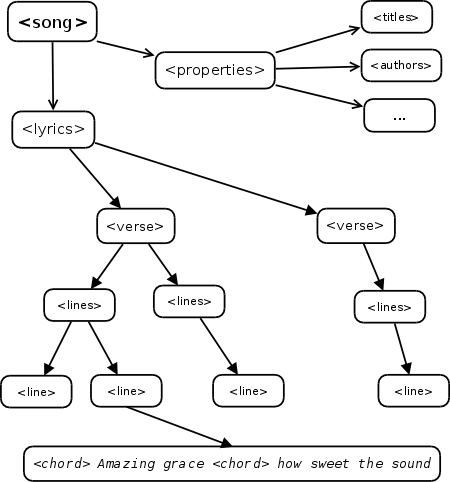
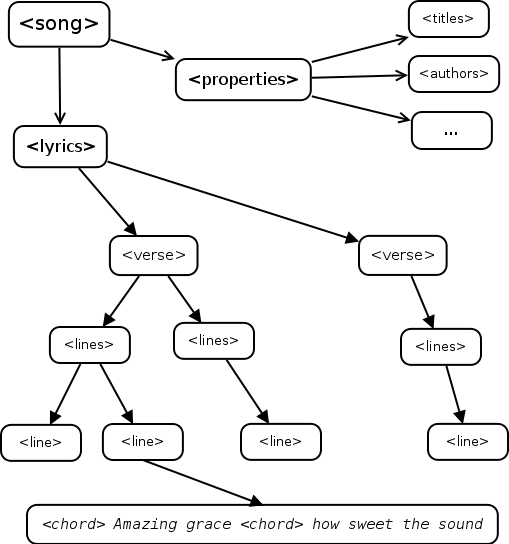
doc: add settings to create pdf using rst2pdf

diff --git a/docs/source/conf.py b/docs/source/conf.py
@@ -9,7 +9,7 @@ import sys, os
 
 # Add any Sphinx extension module names here, as strings. They can be extensions
 # coming with Sphinx (named 'sphinx.ext.*') or your custom ones.
-extensions = []
+extensions = ['sphinx.ext.autodoc','rst2pdf.pdfbuilder']
 
 # Add any paths that contain templates here, relative to this directory.
 templates_path = ['_templates']
@@ -133,4 +133,68 @@ latex_documents = [
 ]
 
 latex_elements = {'fncychap' : '\\usepackage[Sonny]{fncychap}'}
+
+
+# -- Options for PDF output --------------------------------------------------
+# Grouping the document tree into PDF files. List of tuples
+# (source start file, target name, title, author, options).
+#
+# If there is more than one author, separate them with \\.
+# For example: r'Guido van Rossum\\Fred L. Drake, Jr., editor'
+#
+# The options element is a dictionary that lets you override
+# this config per-document.
+# For example,
+# ('index', u'MyProject', u'My Project', u'Author Name',
+#  dict(pdf_compressed = True))
+# would mean that specific document would be compressed
+# regardless of the global pdf_compressed setting.
+pdf_documents = [
+    (master_doc, 'openlyrics-%s' % version, u'OpenLyrics Documentation',
+    u'Martin Zibricky, Raoul Snyman')
+]
+# A comma-separated list of custom stylesheets. Example:
+pdf_stylesheets = [ 'bw', 'kerning', 'a4']
+# Create a compressed PDF
+# Use True/False or 1/0
+# Example: compressed=True
+pdf_compressed = False
+# A colon-separated list of folders to search for fonts. Example:
+# pdf_font_path = ['/usr/share/fonts', '/usr/share/texmf-dist/fonts/']
+pdf_font_path = ['/usr/share/fonts']
+# Language to be used for hyphenation support
+#pdf_language = "en_US"
+# Mode for literal blocks wider than the frame. Can be
+# overflow, shrink or truncate
+pdf_fit_mode = "shrink"
+# Section level that forces a break page.
+# For example: 1 means top-level sections start in a new page
+# 0 means disabled
+pdf_break_level = 1
+# When a section starts in a new page, force it to be 'even', 'odd',
+# or just use 'any'
+#pdf_breakside = 'any'
+# Insert footnotes where they are defined instead of
+# at the end.
+pdf_inline_footnotes = True
+# verbosity level. 0 1 or 2
+pdf_verbosity = 1
+# If false, no index is generated.
+pdf_use_index = False
+# If false, no modindex is generated.
+pdf_use_modindex = False
+# If false, no coverpage is generated.
+pdf_use_coverpage = True
+# Documents to append as an appendix to all manuals.
+#pdf_appendices = []
+# Enable experimental feature to split table cells. Use it
+# if you get "DelayedTable too big" errors
+#pdf_splittables = False
+# Set the default DPI for images
+# pdf_default_dpi = 72
+# Enable rst2pdf extension modules (default is empty list)
+# you need vectorpdf for better sphinx's graphviz support
+#pdf_extensions = ['vectorpdf']
+# Page template name for "regular" pages
+#pdf_page_template = 'cutePage'
 

diff --git a/docs/source/dataformat.rst b/docs/source/dataformat.rst
@@ -11,6 +11,7 @@ Basic Structure
 ---------------
 
 .. image:: /images/xmlstructure.png
+   :width: 70%
 
 
 Features
